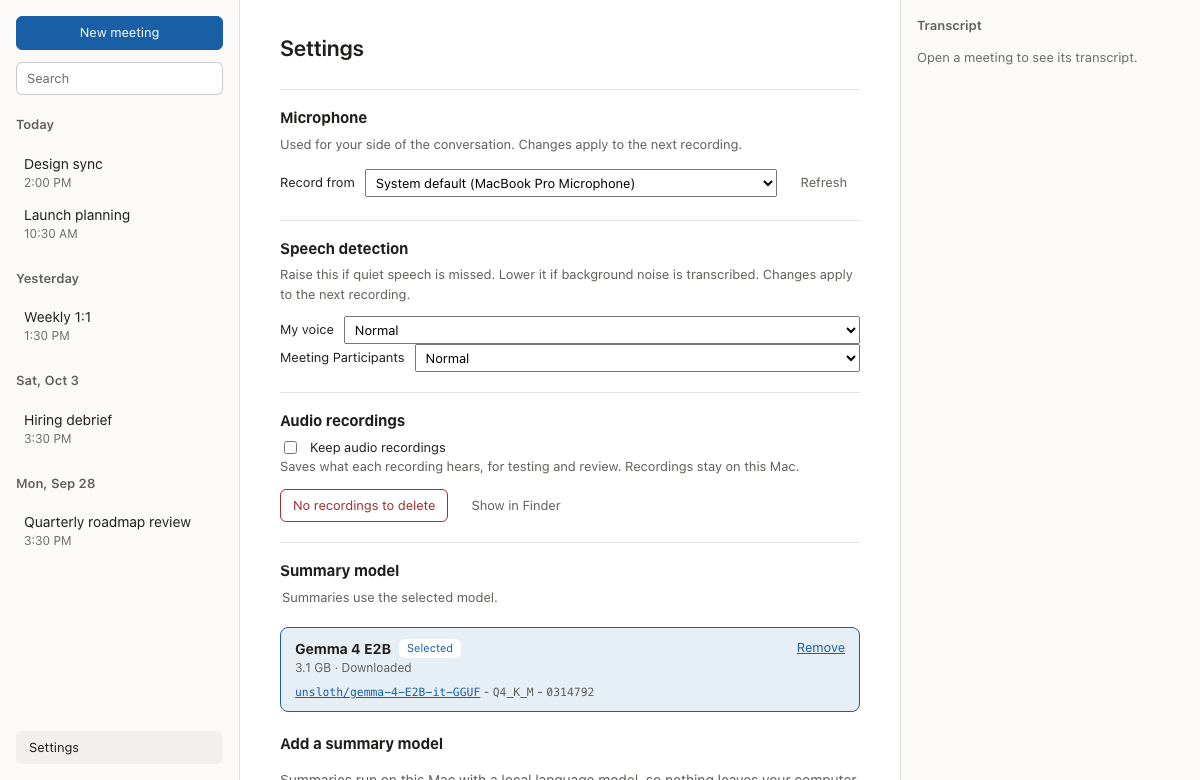
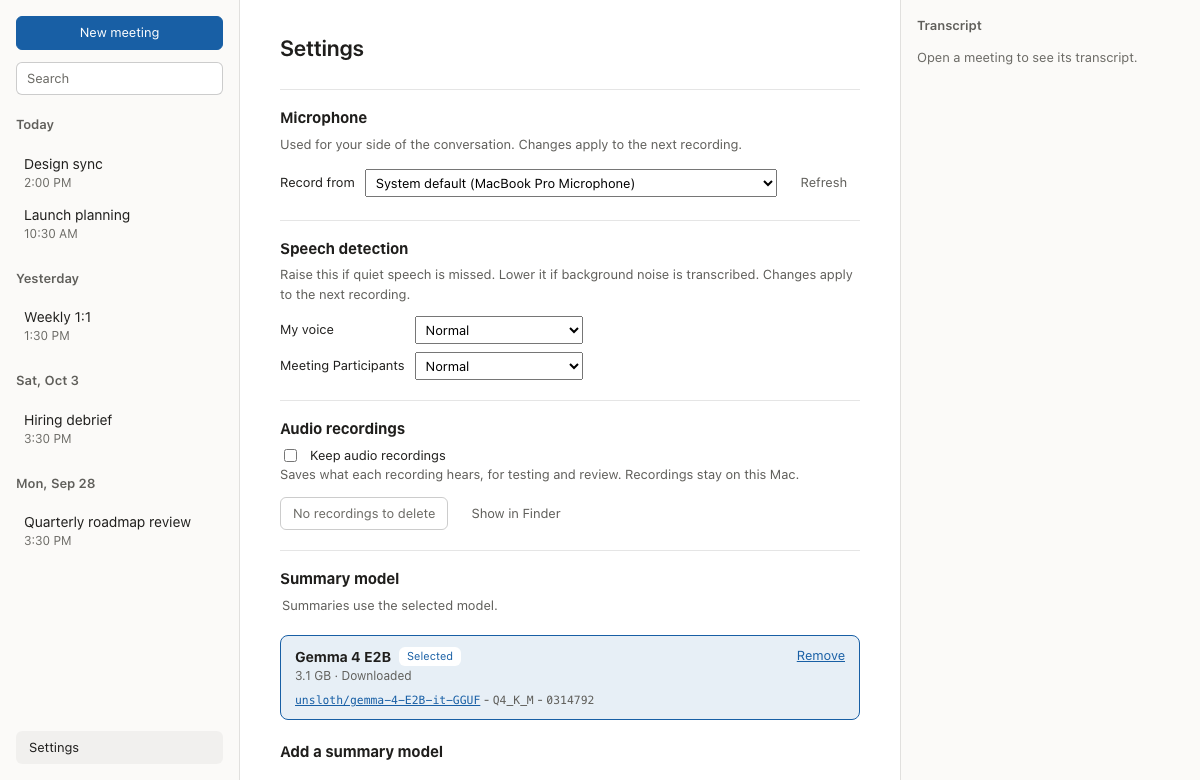
#57: Align the speech detection selects and grey out a disabled danger button
The speech detection selects stretched to fill whatever space their labels left, so they started at different points. They now sit in a two-column grid at a shared width. A disabled danger button kept its red outline because .button.danger came after .button:disabled with the same specificity; a disabled danger button now uses the normal disabled colors. The screenshots made both visible.

diff --git a/src/features/settings/SettingsView.tsx b/src/features/settings/SettingsView.tsx
@@ -1,4 +1,4 @@
-import { useCallback, useEffect, useRef, useState } from "react";
+import { Fragment, useCallback, useEffect, useRef, useState } from "react";
 import {
   api,
   errorMessage,
@@ -174,23 +174,26 @@ function SpeechDetectionSection() {
         recording.
       </p>
       {levels === null && !error && <p className="empty-hint">Loading…</p>}
-      {levels !== null &&
-        SENSITIVITY_SOURCES.map(({ source, label }) => (
-          <div className="settings-row" key={source}>
-            <label htmlFor={`sensitivity-${source}`}>{label}</label>
-            <select
-              id={`sensitivity-${source}`}
-              value={levels[source]}
-              onChange={(e) => void choose(source, e.target.value as Sensitivity)}
-            >
-              {SENSITIVITY_LEVELS.map(({ value, label }) => (
-                <option key={value} value={value}>
-                  {label}
-                </option>
-              ))}
-            </select>
-          </div>
-        ))}
+      {levels !== null && (
+        <div className="settings-grid">
+          {SENSITIVITY_SOURCES.map(({ source, label }) => (
+            <Fragment key={source}>
+              <label htmlFor={`sensitivity-${source}`}>{label}</label>
+              <select
+                id={`sensitivity-${source}`}
+                value={levels[source]}
+                onChange={(e) => void choose(source, e.target.value as Sensitivity)}
+              >
+                {SENSITIVITY_LEVELS.map(({ value, label }) => (
+                  <option key={value} value={value}>
+                    {label}
+                  </option>
+                ))}
+              </select>
+            </Fragment>
+          ))}
+        </div>
+      )}
       {saved && (
         <p className="settings-saved" role="status">
           Saved

diff --git a/src/styles.css b/src/styles.css
@@ -171,6 +171,12 @@ body {
   color: var(--danger);
 }
 
+/* After .button.danger, which would otherwise keep a disabled button red. */
+.button.danger:disabled {
+  border-color: var(--border-strong);
+  color: var(--text-muted);
+}
+
 .full-width {
   width: 100%;
 }
@@ -745,6 +751,20 @@ body {
 
 .settings-row select {
   flex: 1;
+  padding: 4px 6px;
+  font: inherit;
+}
+
+/* Label and select pairs that line up in two columns. */
+.settings-grid {
+  display: grid;
+  grid-template-columns: max-content minmax(0, 12rem);
+  align-items: center;
+  gap: 8px 10px;
+  font-size: 13px;
+}
+
+.settings-grid select {
   padding: 4px 6px;
   font: inherit;
 }
